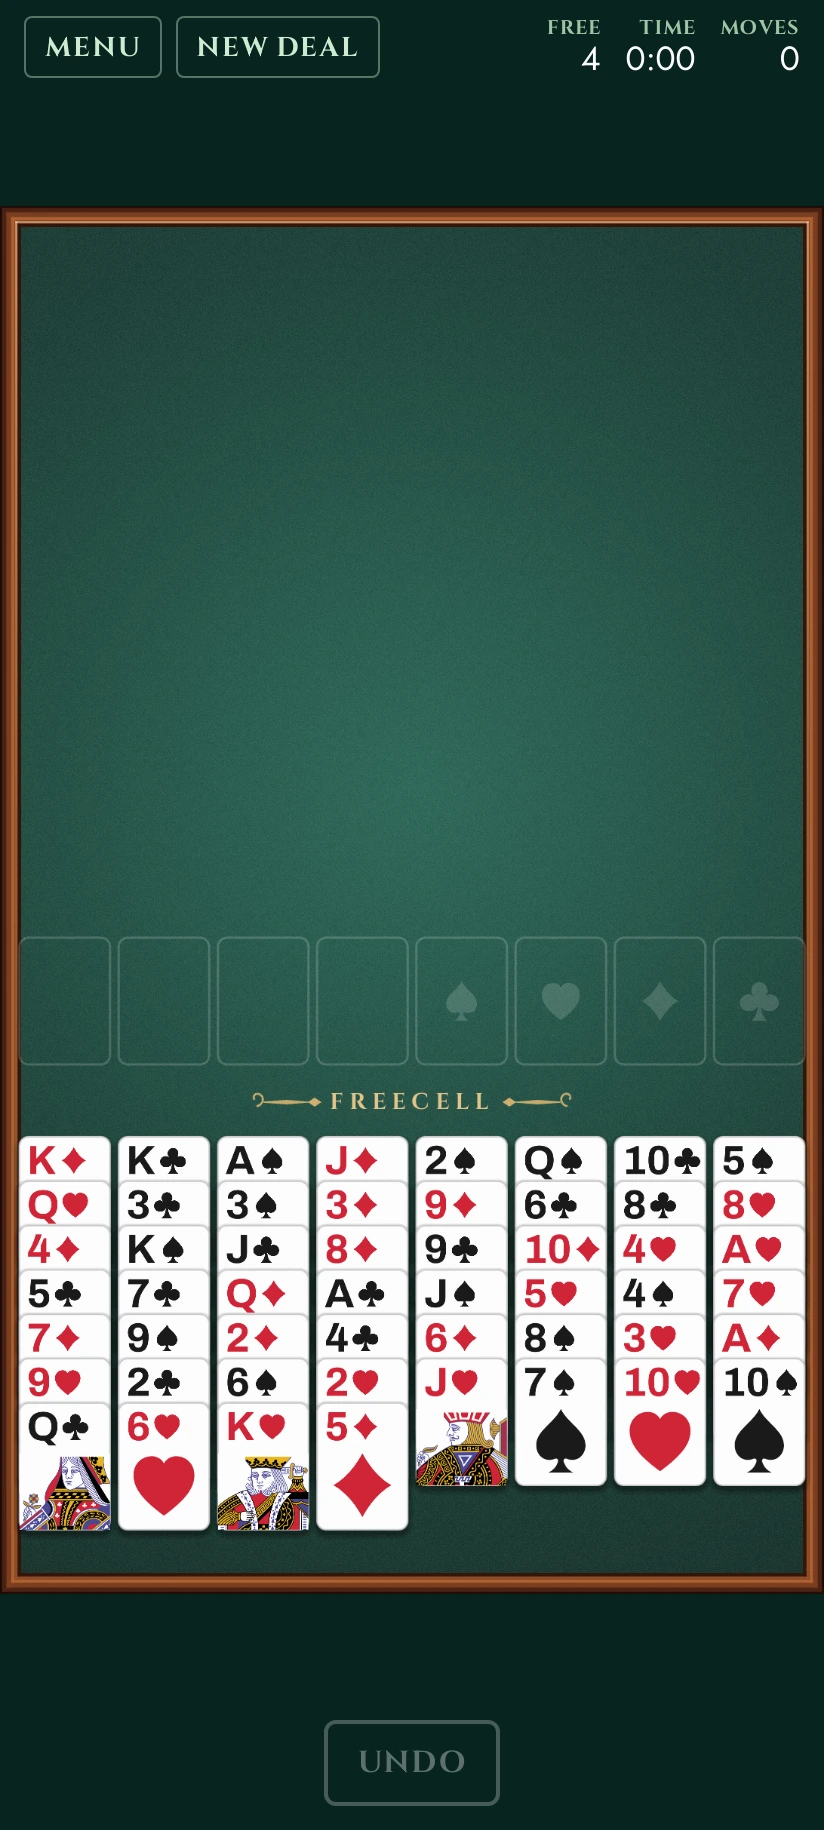
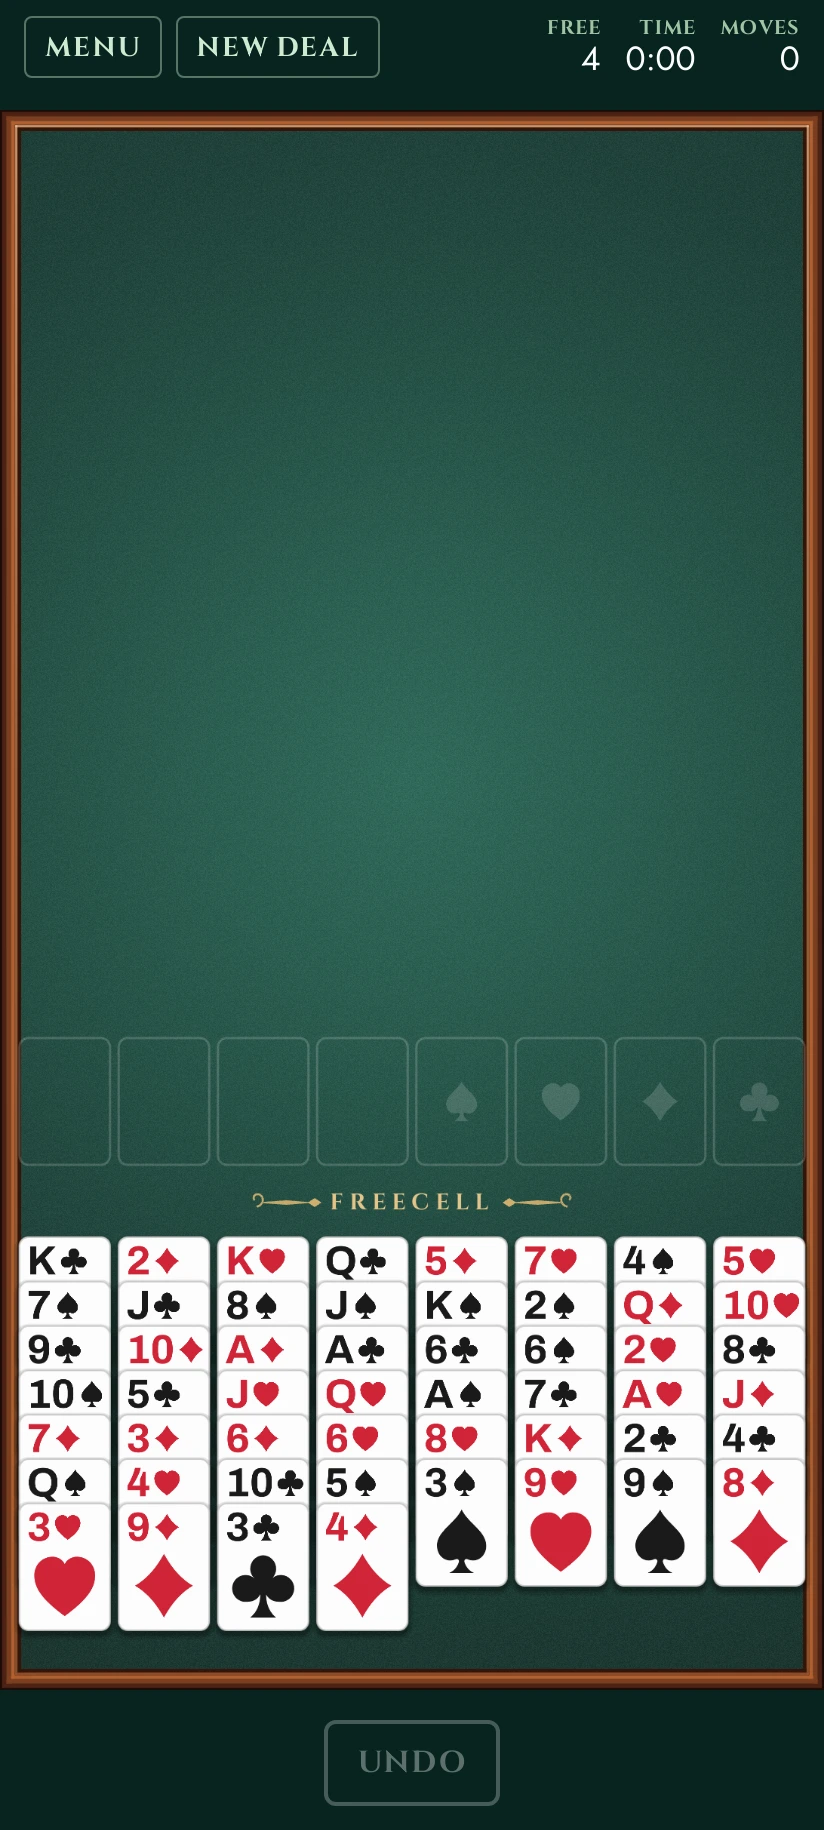
GAME_HEIGHT was only ever right for a 480-wide board
Asked why Tri Peaks still looked letterboxed after the last fix, and the
honest first answer was that it shouldn't have been - the measurement that
picked 920 was real. The second look found the actual gap: that
measurement was taken against GAME_WIDTH, and four games don't use it.
FreeCell and Seahaven bring a wider table for their extra columns; Tri
Peaks and Pyramid aren't columns at all and size themselves off how many
cards have to fit across. A canvas 920 tall and wider than 480 is a canvas
relatively too short for its own width, and Scale.FIT resolves that by
fitting to width and handing the vertical difference straight back as
letterboxing - the same bug the last commit fixed, reintroduced by every
game that doesn't happen to be 480 wide.

Measured rather than assumed, again: comparing the rendered canvas to its
container for five real games found Tri Peaks 58px short top and bottom,
Seahaven - the widest board here - 123px.

The fix generalises the one from last commit instead of special-casing
each game. boardHeight(width) holds the ratio GAME_HEIGHT already gets
right at 480 and scales it to whatever width a game actually asked for;
board.ts and every direct GAME_HEIGHT reference in solitaire-scene.ts now
compute a per-game height through it instead of assuming Klondike's.
BOARD_FLOOR and MAX_BOARD_DROP got the same treatment - boardFloor and
maxBoardDrop derive the clearance each one keeps (20 units off the bottom,
[…]

diff --git a/src/app/game/solitaire-scene.ts b/src/app/game/solitaire-scene.ts
@@ -1,15 +1,15 @@
 import Phaser from 'phaser';
 import {
   BOARD_DROP_STEP,
-  BOARD_FLOOR,
   BOARD_MARGIN,
   CARD_HEIGHT,
   CARD_WIDTH,
-  GAME_HEIGHT,
-  MAX_BOARD_DROP,
   MIN_BOARD_DROP,
   TABLEAU_TOP_Y,
   TOP_ROW_Y,
+  boardFloor,
+  boardHeight,
+  maxBoardDrop,
 } from './config';
 import { Card } from './deck';
 import { DeckTheme } from './deck-theme';
@@ -224,9 +224,11 @@ export class SolitaireScene extends Phaser.Scene {
   private stockZone?: Phaser.GameObjects.Zone;
 
   // How far below its highest position the whole layout is currently sitting.
-  // See MAX_BOARD_DROP in config.ts: the board lives at the bottom of the
-  // room it is using, so the cards are where a thumb is.
-  private drop = MAX_BOARD_DROP;
+  // See boardFloor and maxBoardDrop in config.ts: the board lives at the
+  // bottom of the room it is using, so the cards are where a thumb is.
+  // Placeholder until init() sets the real one - this.table (and so
+  // this.height) doesn't exist yet at field-initialiser time.
+  private drop = 0;
 
   private drag?: DragState;
   // Set while the board is animating something the player must not interrupt
@@ -260,7 +262,7 @@ export class SolitaireScene extends Phaser.Scene {
     this.showShuffle = data.showShuffle;
     this.deckStyle = data.deckStyle;
     this.report = data.events;
-    this.drop = this.table.drops ? MAX_BOARD_DROP : 0;
+    this.drop = this.table.drops ? maxBoardDrop(this.floorY) : 0;
     this.slotMap.clear();
     for (const slot of this.table.slots(this.handedness)) {
       this.slotMap.set(pileKey(slot.ref), {
@@ -319,6 +321,18 @@ export class SolitaireScene extends Phaser.Scene {
   // same textures. See freecell-table.ts.
   private get width(): number {
     return this.table.width;
+  }
+
+  // Scaled to this game's own width - see boardHeight's own note in
+  // config.ts on why a fixed height was the wrong idea for any game whose
+  // width isn't Klondike's.
+  private get height(): number {
+    return boardHeight(this.width);
+  }
+
+  // Clear of the rail at whatever height this particular game came out to.
+  private get floorY(): number {
+    return boardFloor(this.height);
   }
 
   private get columnPitch(): number {
@@ -392,9 +406,9 @@ export class SolitaireScene extends Phaser.Scene {
       .filter((pile) => !this.table.fansUp(pile.ref))
       .map((pile) => this.fanDepth(pile.ref, pile.cards));
     const deepest = Math.max(0, ...depths);
-    const slack = BOARD_FLOOR - (TABLEAU_TOP_Y + deepest + CARD_HEIGHT);
+    const slack = this.floorY - (TABLEAU_TOP_Y + deepest + CARD_HEIGHT);
     const stepped = Math.floor(Math.max(0, slack) / BOARD_DROP_STEP) * BOARD_DROP_STEP;
-    const next = Math.min(Math.max(stepped, MIN_BOARD_DROP), MAX_BOARD_DROP);
+    const next = Math.min(Math.max(stepped, MIN_BOARD_DROP), maxBoardDrop(this.floorY));
     if (next === this.drop) return;
 
     this.drop = next;
@@ -414,7 +428,7 @@ export class SolitaireScene extends Phaser.Scene {
   private fanOffsets(ref: PileRef, cards: readonly Card[]): number[] {
     const steps = this.fanSteps(ref, cards);
     const total = steps.reduce((sum, step) => sum + step, 0);
-    const room = BOARD_FLOOR - (TABLEAU_TOP_Y + this.drop) - CARD_HEIGHT;
+    const room = this.floorY - (TABLEAU_TOP_Y + this.drop) - CARD_HEIGHT;
     const squeeze = this.table.fansUp(ref) || total <= room ? 1 : room / total;
 
     const offsets: number[] = [];
@@ -986,7 +1000,7 @@ export class SolitaireScene extends Phaser.Scene {
 
   /** The board's own dimensions, for placing DOM over it. */
   gameSize(): { width: number; height: number } {
-    return { width: this.width, height: GAME_HEIGHT };
+    return { width: this.width, height: this.height };
   }
 
   /** How long the game in progress has been running, in seconds. */
@@ -1208,11 +1222,11 @@ export class SolitaireScene extends Phaser.Scene {
   // the screen, leaving a trail stamped into a render texture behind it.
   private startCascade(): void {
     const pr = this.pixelRatio;
-    const rt = this.add.renderTexture(0, 0, this.width * pr, GAME_HEIGHT * pr).setOrigin(0, 0);
+    const rt = this.add.renderTexture(0, 0, this.width * pr, this.height * pr).setOrigin(0, 0);
     // Drawn at canvas resolution and displayed back down to board units, the
     // same bargain the card textures make: the trail is a ghost, but a soft
     // ghost looks like a mistake.
-    rt.setDisplaySize(this.width, GAME_HEIGHT);
+    rt.setDisplaySize(this.width, this.height);
     this.root.addAt(rt, 1);
     this.cascade = rt;
 
@@ -1271,7 +1285,7 @@ export class SolitaireScene extends Phaser.Scene {
     // cards further instead of the whole cascade running in slow motion.
     const step = Math.min(delta / 16.6667, 2);
     const pr = this.pixelRatio;
-    const floor = GAME_HEIGHT - CARD_HEIGHT / 2;
+    const floor = this.height - CARD_HEIGHT / 2;
 
     this.fallers = this.fallers.filter((faller) => {
       const sprite = faller.sprite;

diff --git a/src/app/game/config.ts b/src/app/game/config.ts
@@ -55,6 +55,26 @@ export const CARD_BACK_PEEK_HEIGHT = 11;
 // instead of leaving it as dead felt past a floor that never moved.
 export const GAME_HEIGHT = 920;
 
+// GAME_HEIGHT is the right canvas height for a 480-wide board, and only a
+// 480-wide board - it was measured and chosen against GAME_WIDTH, not
+// against anything that varies per game. FreeCell, Seahaven, Tri Peaks and
+// Pyramid all bring their own width (eight and ten columns, or a shape
+// that isn't columns at all), and a wider canvas at the same fixed height
+// is a canvas relatively too short for its width - which Scale.FIT resolves
+// by fitting to width and leaving the vertical letterboxing right back,
+// found the same way the fixed GAME_HEIGHT was: measured on the actual
+// device rather than assumed, this time by comparing the rendered canvas
+// to its container for five real games. Tri Peaks came out 58px short top
+// and bottom; Seahaven, the widest board here, 123px.
+//
+// This is the fix everywhere the canvas is actually sized: hold the ratio
+// GAME_HEIGHT keeps at 480 constant, and scale height with whatever width
+// the game in play actually asked for, rather than assuming every game
+// wants the same fixed number Klondike does.
+export function boardHeight(width: number): number {
+  return Math.round((width * GAME_HEIGHT) / GAME_WIDTH);
+}
+
 // Poker size is 2.5 x 3.5 inches - a 5:7 ratio - and cards look wrong at
 // anything else. The package keeps them in that proportion; 60 units wide is
 // its default and this board's binding constraint, which is the one real
@@ -142,6 +162,24 @@ export const BOARD_FLOOR = 900;
 // there.
 export const MAX_BOARD_DROP = 460;
 export const BOARD_DROP_STEP = 65;
+
+// BOARD_FLOOR and MAX_BOARD_DROP above are only right at GAME_HEIGHT - the
+// same problem boardHeight solves for a game's width, these two have for
+// its height. A game wider than 480 gets a taller canvas than 920 (see
+// boardHeight), and without pushing the floor and the drop range down to
+// match, the extra room past 920 sits unused below a floor that never
+// moved - precisely the bug boardHeight was written to fix, one level up.
+// Derived from the two constants above rather than a second pair of magic
+// numbers: the 20-unit clearance BOARD_FLOOR keeps below GAME_HEIGHT, and
+// the 440-unit gap MAX_BOARD_DROP keeps below BOARD_FLOOR, both held
+// constant as height changes rather than re-picked for every board size.
+export function boardFloor(height: number): number {
+  return height - (GAME_HEIGHT - BOARD_FLOOR);
+}
+
+export function maxBoardDrop(floor: number): number {
+  return floor - (BOARD_FLOOR - MAX_BOARD_DROP);
+}
 
 // And how far down it must always sit, which is a fact about the waste rather
 // than about the tableau: a draw-three waste fans *upward* out of its slot, so

diff --git a/src/app/game/board.ts b/src/app/game/board.ts
@@ -1,6 +1,6 @@
 import Phaser from 'phaser';
 import { createBoard } from 'phaser-card-engine/phaser';
-import { GAME_HEIGHT } from './config';
+import { boardHeight } from './config';
 import { FELT_CLEAR_COLOR } from './table';
 import { BoardInit, SolitaireScene } from './solitaire-scene';
 
@@ -22,7 +22,10 @@ export function createBoardGame(parent: HTMLElement, init: BoardInit): Phaser.Ga
   const game = createBoard({
     parent,
     width: init.table.width,
-    height: GAME_HEIGHT,
+    // Scaled to the game's own width rather than the fixed GAME_HEIGHT - see
+    // boardHeight's own note on why a wider game needs a taller canvas to
+    // reach the same container edges a 480-wide one already does.
+    height: boardHeight(init.table.width),
     backgroundColor: FELT_CLEAR_COLOR,
   });
 
